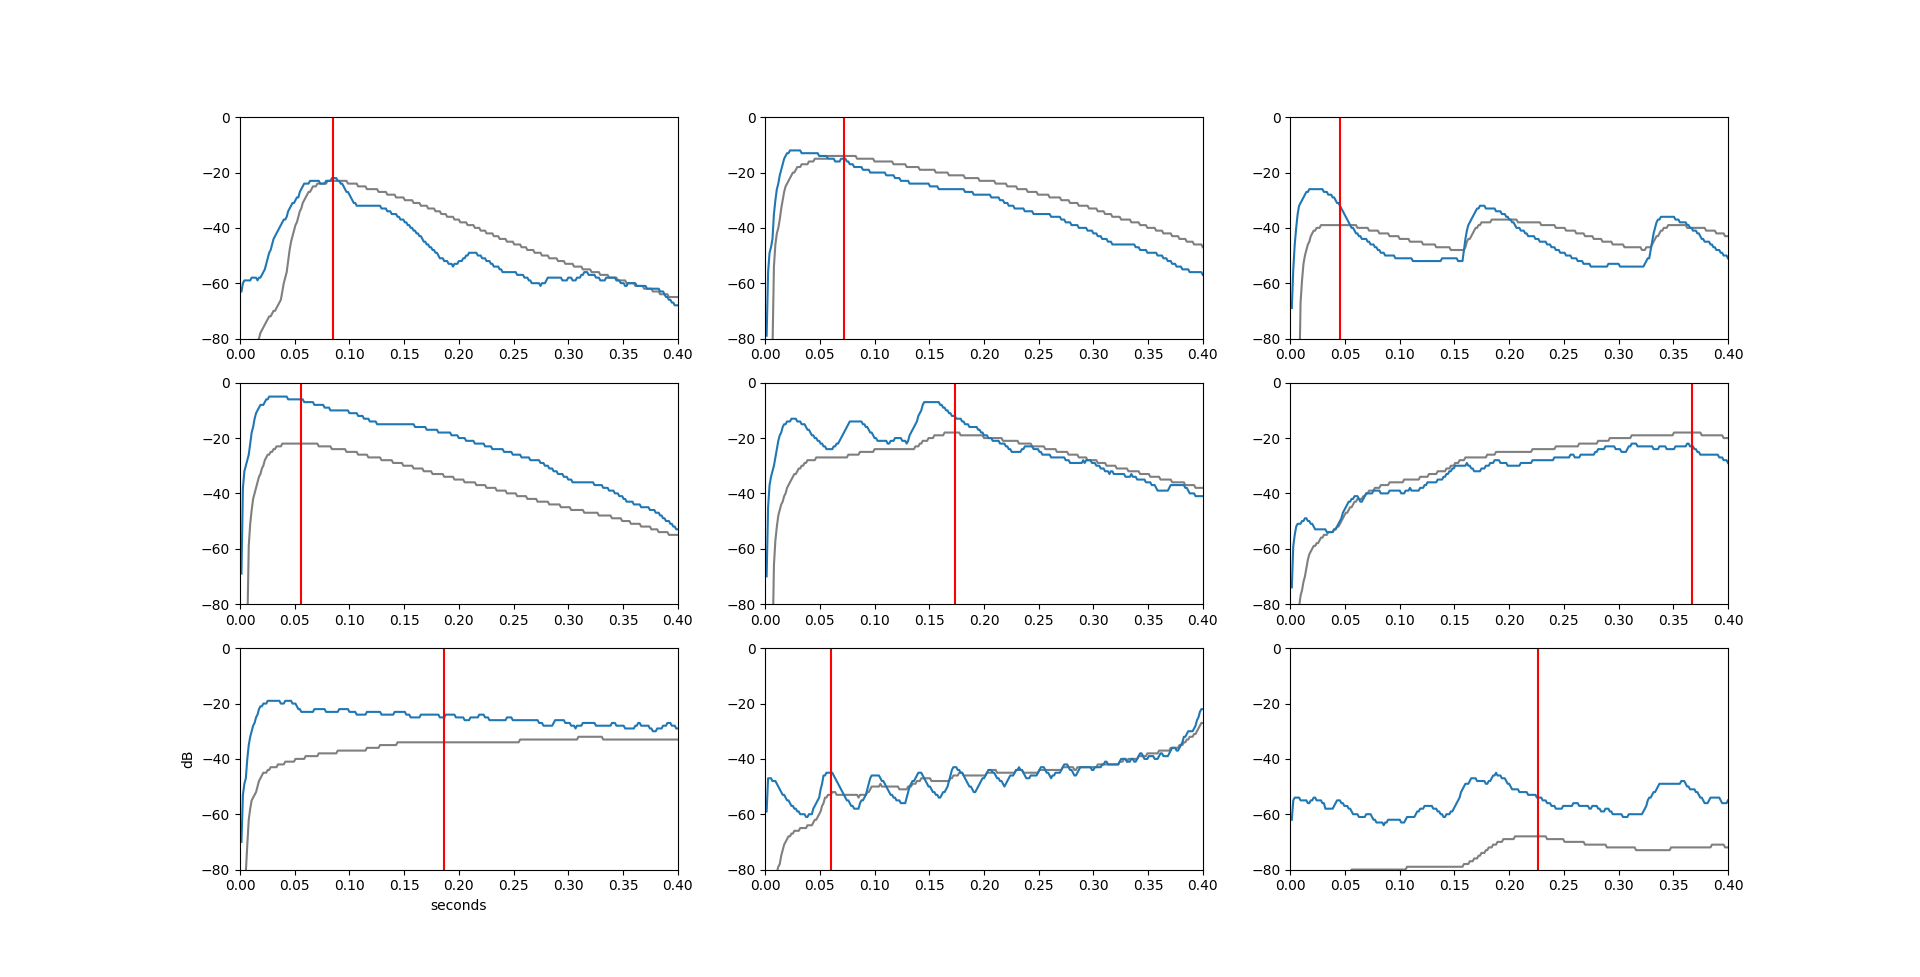
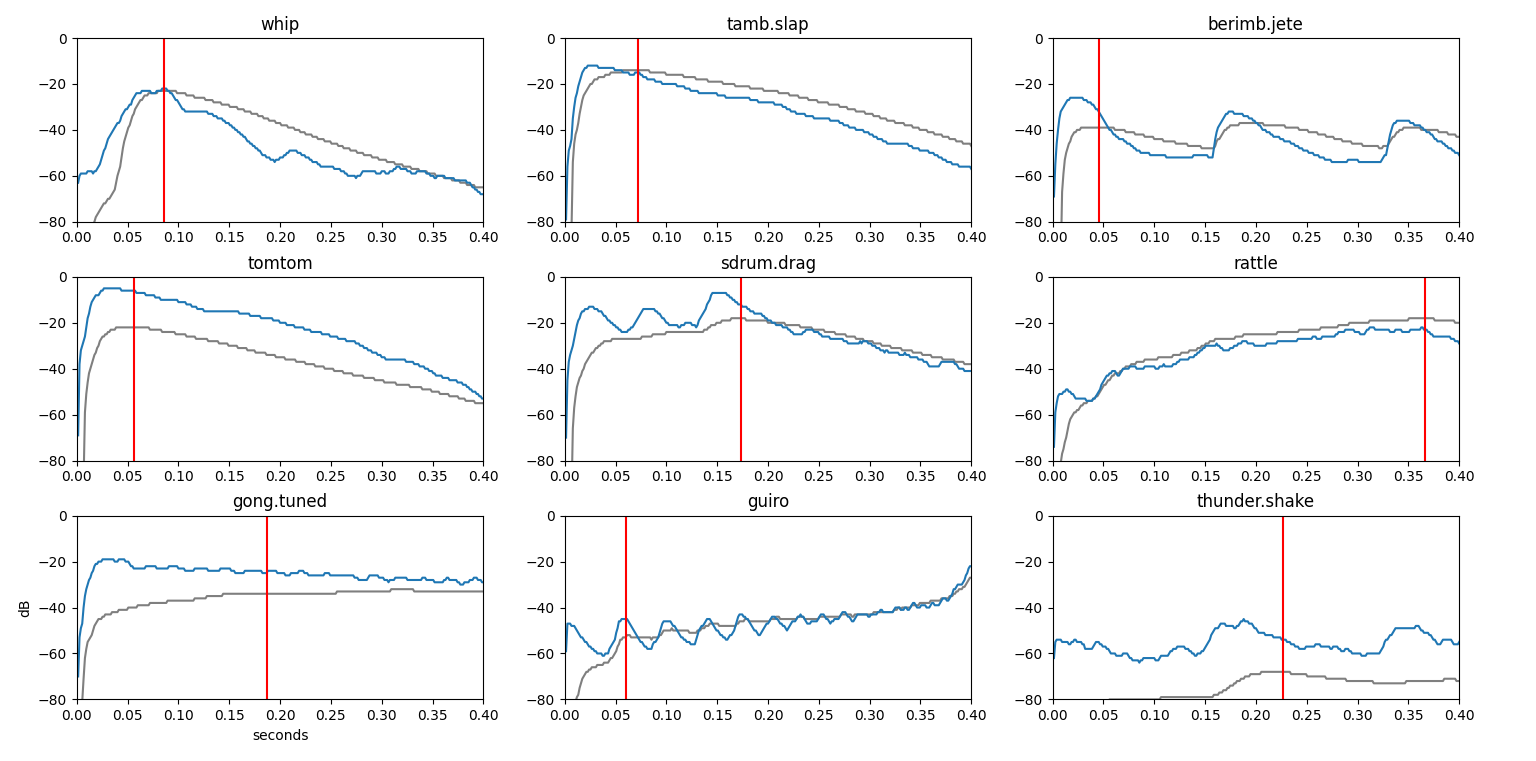
Add nomes no plot com matplotlib

diff --git a/python/mpl_plot.py b/python/mpl_plot.py
@@ -7,6 +7,7 @@ figure, axis = plt.subplots(3, 3)
 #chicote, tomtom, gong, tapa pandeiro, drag, guiro, jeté no berimbau, chocalho, chapa metálica 
 arrFileNames30 = ['whip30.txt', 'tomtom30.txt', 'gong.tuned30.txt', 'tamb.slap30.txt', 'sdrum.drag30.txt', 'guiro30.txt', 'berimb.jete30.txt', 'rattle30.txt', 'thunder.shake30.txt']
 arrFileNames4 = ['whip4.txt', 'tomtom4.txt', 'gong.tuned4.txt', 'tamb.slap4.txt', 'sdrum.drag4.txt', 'guiro4.txt', 'berimb.jete4.txt', 'rattle4.txt', 'thunder.shake4.txt']
+arrGraphNames = ['whip', 'tomtom', 'gong.tuned', 'tamb.slap', 'sdrum.drag', 'guiro', 'berimb.jete', 'rattle', 'thunder.shake']
 
 Xs = []
 Ys = []
@@ -70,7 +71,7 @@ for f in range(0, num_files):
             cur_line = cur_line + 1
         
         axis[line, column].plot(X, Y, 'tab:blue')
-        #axis[line, column].set_title(arrFileNames30[f])
+        axis[line, column].set_title(arrGraphNames[f])
 
 line = 0
 column = 0
